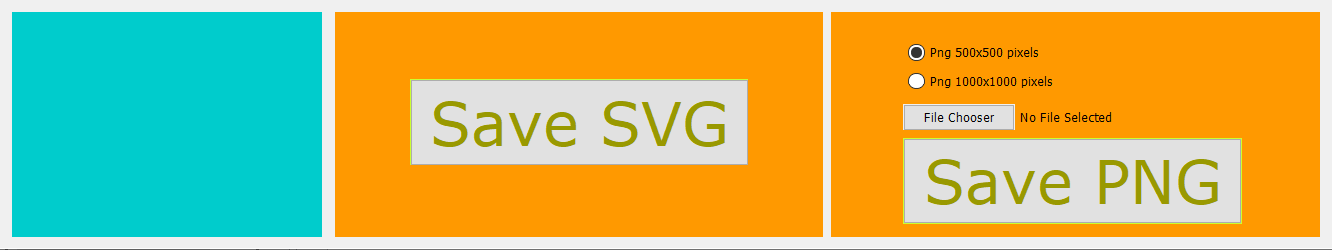
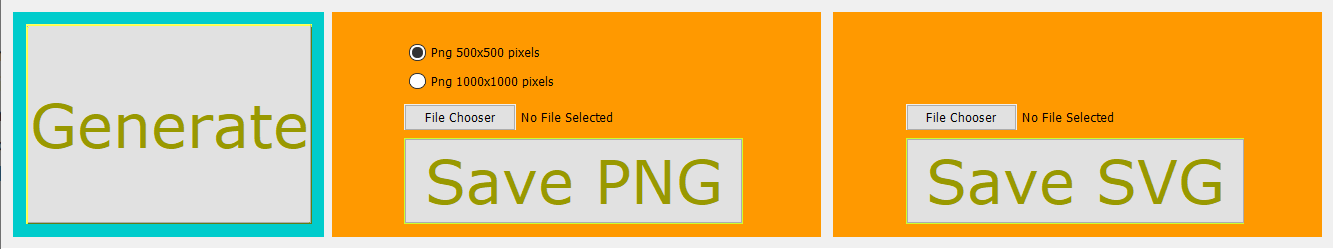
Web Site
- Aggiornato il sito Web

diff --git a/SnowFlakeProject/SnowFlake/src/EditingPagePanel.java b/SnowFlakeProject/SnowFlake/src/EditingPagePanel.java
@@ -1,9 +1,4 @@
 
-import java.awt.Graphics2D;
-import java.awt.image.BufferedImage;
-import java.io.File;
-import javax.imageio.ImageIO;
-import javax.swing.JFrame;
 
 /**
  *
@@ -11,10 +6,6 @@ import javax.swing.JFrame;
  */
 public class EditingPagePanel extends javax.swing.JPanel {
 
-    /**
-     * Il file del salvataggio dei punti di taglio del progetto corrente.
-     */
-    private File currentFile = null;
 
     /**
      * Il triangolo modello.
@@ -26,8 +17,7 @@ public class EditingPagePanel extends javax.swing.JPanel {
      */
     public EditingPagePanel() {
         initComponents();
-        this.livePreviewPanel.setCurrentFile(this.currentFile);
-        this.triangleModel = trianglePanel.getTriangleModel();
+        this.triangleModel = this.trianglePanel.getTriangleModel();
     }
 
     /**
@@ -341,6 +331,8 @@ public class EditingPagePanel extends javax.swing.JPanel {
         generateButton.setFont(new java.awt.Font("Verdana", 0, 48)); // NOI18N
         generateButton.setForeground(new java.awt.Color(153, 153, 0));
         generateButton.setText("Generate");
+        generateButton.setBorder(new javax.swing.border.SoftBevelBorder(javax.swing.border.BevelBorder.RAISED));
+        generateButton.setHorizontalTextPosition(javax.swing.SwingConstants.CENTER);
         generateButton.addActionListener(new java.awt.event.ActionListener() {
             public void actionPerformed(java.awt.event.ActionEvent evt) {
                 generateButtonActionPerformed(evt);
@@ -351,21 +343,17 @@ public class EditingPagePanel extends javax.swing.JPanel {
         jPanel4.setLayout(jPanel4Layout);
         jPanel4Layout.setHorizontalGroup(
             jPanel4Layout.createParallelGroup(javax.swing.GroupLayout.Alignment.LEADING)
-            .addGap(0, 275, Short.MAX_VALUE)
-            .addGroup(jPanel4Layout.createParallelGroup(javax.swing.GroupLayout.Alignment.LEADING)
-                .addGroup(jPanel4Layout.createSequentialGroup()
-                    .addContainerGap()
-                    .addComponent(generateButton)
-                    .addContainerGap(javax.swing.GroupLayout.DEFAULT_SIZE, Short.MAX_VALUE)))
+            .addGroup(jPanel4Layout.createSequentialGroup()
+                .addContainerGap()
+                .addComponent(generateButton, javax.swing.GroupLayout.DEFAULT_SIZE, 342, Short.MAX_VALUE)
+                .addContainerGap())
         );
         jPanel4Layout.setVerticalGroup(
             jPanel4Layout.createParallelGroup(javax.swing.GroupLayout.Alignment.LEADING)
-            .addGap(0, 180, Short.MAX_VALUE)
-            .addGroup(jPanel4Layout.createParallelGroup(javax.swing.GroupLayout.Alignment.LEADING)
-                .addGroup(jPanel4Layout.createSequentialGroup()
-                    .addContainerGap()
-                    .addComponent(generateButton, javax.swing.GroupLayout.DEFAULT_SIZE, 160, Short.MAX_VALUE)
-                    .addContainerGap()))
+            .addGroup(jPanel4Layout.createSequentialGroup()
+                .addContainerGap()
+                .addComponent(generateButton, javax.swing.GroupLayout.DEFAULT_SIZE, 144, Short.MAX_VALUE)
+                .addContainerGap())
         );
 
         svgSavePanel.setBackground(new java.awt.Color(255, 153, 0));
@@ -491,81 +479,79 @@ public class EditingPagePanel extends javax.swing.JPanel {
     }// </editor-fold>//GEN-END:initComponents
 
     private void removeRadioButtonActionPerformed(java.awt.event.ActionEvent evt) {//GEN-FIRST:event_removeRadioButtonActionPerformed
-        trianglePanel.isAdd = false;
-        trianglePanel.isDrag = false;
+        this.trianglePanel.isAdd = false;
+        this.trianglePanel.isDrag = false;
     }//GEN-LAST:event_removeRadioButtonActionPerformed
 
     private void addRadioButtonActionPerformed(java.awt.event.ActionEvent evt) {//GEN-FIRST:event_addRadioButtonActionPerformed
-        trianglePanel.isAdd = true;
-        trianglePanel.isDrag = false;
+        this.trianglePanel.isAdd = true;
+        this.trianglePanel.isDrag = false;
     }//GEN-LAST:event_addRadioButtonActionPerformed
 
     private void previewButtonActionPerformed(java.awt.event.ActionEvent evt) {//GEN-FIRST:event_previewButtonActionPerformed
-        trianglePanel.fillPoly = !trianglePanel.fillPoly;
-        trianglePanel.drawDots = !trianglePanel.drawDots;
+        this.trianglePanel.fillPoly = !this.trianglePanel.fillPoly;
+        this.trianglePanel.drawDots = !this.trianglePanel.drawDots;
         repaint();
     }//GEN-LAST:event_previewButtonActionPerformed
 
     private void resetButtonActionPerformed(java.awt.event.ActionEvent evt) {//GEN-FIRST:event_resetButtonActionPerformed
-        trianglePanel.reset();
-        this.livePreviewPanel = new LivePreviewPanel();
-
-        this.livePreviewPanel.updateFromArea(trianglePanel.generate());
+        this.trianglePanel.reset();
+        this.livePreviewPanel.updateFromArea(this.trianglePanel.generate());
         repaint();
     }//GEN-LAST:event_resetButtonActionPerformed
 
     private void undoButtonActionPerformed(java.awt.event.ActionEvent evt) {//GEN-FIRST:event_undoButtonActionPerformed
-        trianglePanel.undo();
-        this.livePreviewPanel.updateFromArea(trianglePanel.generate());
+        this.trianglePanel.undo();
+        this.livePreviewPanel.updateFromArea(this.trianglePanel.generate());
         repaint();
     }//GEN-LAST:event_undoButtonActionPerformed
 
     private void saveButtonActionPerformed(java.awt.event.ActionEvent evt) {//GEN-FIRST:event_saveButtonActionPerformed
-        trianglePanel.saveDots();
-        if (trianglePanel.getCurrentFileName() != null) {
-            this.currentFileName.setText("Working File: " + trianglePanel.currentFile.getName());
+        this.trianglePanel.saveDots();
+        if (this.trianglePanel.getCurrentFileName() != null) {
+            this.currentFileName.setText("Working File: " + this.trianglePanel.currentFile.getName());
         }
-        this.livePreviewPanel.updateFromArea(trianglePanel.generate());
+        this.livePreviewPanel.updateFromArea(this.trianglePanel.generate());
     }//GEN-LAST:event_saveButtonActionPerformed
 
     private void openButtonActionPerformed(java.awt.event.ActionEvent evt) {//GEN-FIRST:event_openButtonActionPerformed
-        trianglePanel.openDots();
-        if (trianglePanel.getCurrentFileName() != null) {
-            this.currentFileName.setText("Working File: " + trianglePanel.currentFile.getName());
+        this.trianglePanel.openDots();
+        if (this.trianglePanel.getCurrentFileName() != null) {
+            this.currentFileName.setText("Working File: " + this.trianglePanel.currentFile.getName());
         }
-        this.livePreviewPanel.updateFromArea(trianglePanel.generate());
+        this.livePreviewPanel.updateFromArea(this.trianglePanel.generate());
 
     }//GEN-LAST:event_openButtonActionPerformed
 
     private void saveAsButtonActionPerformed(java.awt.event.ActionEvent evt) {//GEN-FIRST:event_saveAsButtonActionPerformed
-        trianglePanel.saveDotsAs();
-        if (trianglePanel.getCurrentFileName() != null) {
-            this.currentFileName.setText("Working File: " + trianglePanel.currentFile.getName());
+        this.trianglePanel.saveDotsAs();
+        if (this.trianglePanel.getCurrentFileName() != null) {
+            this.currentFileName.setText("Working File: " + this.trianglePanel.currentFile.getName());
         }
-        this.livePreviewPanel.updateFromArea(trianglePanel.generate());
+        this.livePreviewPanel.updateFromArea(this.trianglePanel.generate());
 
     }//GEN-LAST:event_saveAsButtonActionPerformed
 
     private void dragRadioButtonActionPerformed(java.awt.event.ActionEvent evt) {//GEN-FIRST:event_dragRadioButtonActionPerformed
-        trianglePanel.isAdd = false;
-        trianglePanel.isDrag = true;
-        trianglePanel.isCurved = false;
+        this.trianglePanel.isAdd = false;
+        this.trianglePanel.isDrag = true;
+        this.trianglePanel.isCurved = false;
     }//GEN-LAST:event_dragRadioButtonActionPerformed
 
     private void curvedRadioButton1ActionPerformed(java.awt.event.ActionEvent evt) {//GEN-FIRST:event_curvedRadioButton1ActionPerformed
-        trianglePanel.isCurved = true;
-        trianglePanel.isAdd = false;
-        trianglePanel.isDrag = true;
+        this.trianglePanel.isCurved = true;
+        this.trianglePanel.isAdd = false;
+        this.trianglePanel.isDrag = true;
     }//GEN-LAST:event_curvedRadioButton1ActionPerformed
 
     private void livePreviewActionPerformed(java.awt.event.ActionEvent evt) {//GEN-FIRST:event_livePreviewActionPerformed
         this.livePreviewPanel.setLivePreview(this.livePreview.isSelected());
-        this.livePreviewPanel.updateFromArea(trianglePanel.generate());
+        this.livePreviewPanel.updateFromArea(this.trianglePanel.generate());
     }//GEN-LAST:event_livePreviewActionPerformed
 
     private void trianglePanelMouseReleased(java.awt.event.MouseEvent evt) {//GEN-FIRST:event_trianglePanelMouseReleased
         this.livePreviewPanel.repaint();
-        this.livePreviewPanel.updateFromArea(trianglePanel.generate());
+        this.livePreviewPanel.updateFromArea(this.trianglePanel.generate());
     }//GEN-LAST:event_trianglePanelMouseReleased
 
     private void formMouseClicked(java.awt.event.MouseEvent evt) {//GEN-FIRST:event_formMouseClicked
@@ -578,7 +564,7 @@ public class EditingPagePanel extends javax.swing.JPanel {
 
     private void pngFileChooserButtonActionPerformed(java.awt.event.ActionEvent evt) {//GEN-FIRST:event_pngFileChooserButtonActionPerformed
         if (this.livePreviewPanel.selectPngFile() != null) {
-            this.pngFileSelected.setText("Working File: " + livePreviewPanel.currentPngFile.getName());
+            this.pngFileSelected.setText("Working File: " + this.livePreviewPanel.currentPngFile.getName());
         }
     }//GEN-LAST:event_pngFileChooserButtonActionPerformed
 
@@ -596,7 +582,7 @@ public class EditingPagePanel extends javax.swing.JPanel {
 
     private void svgFileChooserButtonActionPerformed(java.awt.event.ActionEvent evt) {//GEN-FIRST:event_svgFileChooserButtonActionPerformed
         if (this.livePreviewPanel.selectSvgFile() != null) {
-            this.svgFileSelected.setText("Working File: " + livePreviewPanel.currentSvgFile.getName());
+            this.svgFileSelected.setText("Working File: " + this.livePreviewPanel.currentSvgFile.getName());
         }
     }//GEN-LAST:event_svgFileChooserButtonActionPerformed
 

diff --git a/SnowFlakeProject/SnowFlake/src/LivePreviewPanel.java b/SnowFlakeProject/SnowFlake/src/LivePreviewPanel.java
@@ -9,6 +9,9 @@ import java.awt.geom.Area;
 import java.awt.image.BufferedImage;
 import java.io.File;
 import java.io.Writer;
+import java.util.ArrayList;
+import java.util.logging.Level;
+import java.util.logging.Logger;
 import javax.imageio.ImageIO;
 import javax.swing.JFileChooser;
 import javax.swing.JFrame;
@@ -56,6 +59,10 @@ public class LivePreviewPanel extends javax.swing.JPanel {
     public boolean isMinimumResolution = true;
 
     private Graphics2D g2;
+
+    public ArrayList<Area> getRenderAreas() {
+        return null;
+    }
 
     /**
      *
@@ -105,7 +112,13 @@ public class LivePreviewPanel extends javax.swing.JPanel {
             g2.translate(-sector1.getBounds().width / 2, -sector1.getBounds().height);
             g2.fill(sector6);
             //--------------------
-            //this.setMargin(1);
+            /*
+            g2.setColor(Color.RED);
+            g2.fill(cutArea);
+            for (int i = 0; i < 6 ; i++) {
+                g2.fill(getRotateArea((i-1)*60, getFlippedArea(cutArea)));
+                g2.fill(getRotateArea(i*60, cutArea));
+            }*/
         }
     }
 
@@ -120,18 +133,25 @@ public class LivePreviewPanel extends javax.swing.JPanel {
      * Salva un file Svg contenente l'immagine generata del fiocco di neve.
      */
     public void saveSVG() {
-        DOMImplementation domImpl
-                = GenericDOMImplementation.getDOMImplementation();
-        String svgNS = "http://www.w3.org/2000/svg";
-        Document document = domImpl.createDocument(svgNS, "svg", null);
-        SVGGraphics2D svgGenerator = new SVGGraphics2D(document);
-        this.paintComponent(svgGenerator);
-        boolean useCSS = true;
-        Writer out;
-        try {
-            svgGenerator.stream(this.currentSvgFile.toPath().toString());
-        } catch (SVGGraphics2DIOException e) {
+        if (this.currentSvgFile != null) {
+            DOMImplementation domImpl
+                    = GenericDOMImplementation.getDOMImplementation();
+            String svgNS = "http://www.w3.org/2000/svg";
+            Document document = domImpl.createDocument(svgNS, "svg", null);
+            SVGGraphics2D svgGenerator = new SVGGraphics2D(document);
+            this.paintComponent(svgGenerator);
+            try {
+                svgGenerator.stream(this.currentSvgFile.toPath().toString());
+            } catch (SVGGraphics2DIOException e) {
 
+            }
+        } else {
+            JOptionPane jop = new JOptionPane();
+
+            jop.showMessageDialog(this, "No file selected!",
+                    "File Error",
+                    JOptionPane.ERROR_MESSAGE);
+            repaint();
         }
     }
 
@@ -141,7 +161,6 @@ public class LivePreviewPanel extends javax.swing.JPanel {
     public void savePNG() {
         if (this.currentPngFile != null) {
             JFrame savePngFrame = new JFrame("Png Saved!");
-            JPanel jp = new JPanel();
             savePngFrame.add(this);
             if (isMinimumResolution) {
                 savePngFrame.setSize(500, 500);
@@ -156,7 +175,7 @@ public class LivePreviewPanel extends javax.swing.JPanel {
                 BufferedImage image = new BufferedImage(this.getWidth() + 7, this.getHeight() + 30, BufferedImage.TYPE_INT_ARGB);
                 Graphics2D graphics2d = image.createGraphics();
                 savePngFrame.paint(graphics2d);
-                ImageIO.write(image, "png", new File(currentPngFile.getPath()));
+                ImageIO.write(image, "png", new File(this.currentPngFile.getPath()));
             } catch (Exception exception) {
             }
 
@@ -175,7 +194,6 @@ public class LivePreviewPanel extends javax.swing.JPanel {
 
     private Shape getRotateArea(int angle, Shape shape) {
         AffineTransform af = new AffineTransform();
-        //af.rotate(Math.toRadians(angle), (shape.getBounds().x+shape.getBounds().width), (shape.getBounds().y+shape.getBounds().height));
         af.rotate(Math.toRadians(angle), shape.getBounds().x, shape.getBounds().y);
         return af.createTransformedShape(shape);
     }
@@ -196,8 +214,8 @@ public class LivePreviewPanel extends javax.swing.JPanel {
         return tot.createTransformedShape(area);
     }
 
-    public void setMargin() {
-        this.MARGIN = MARGIN;
+    public void setMargin(int margin) {
+        this.MARGIN = margin;
     }
 
     public void updateFromArea(Area cutArea) {
@@ -263,10 +281,6 @@ public class LivePreviewPanel extends javax.swing.JPanel {
     // Variables declaration - do not modify//GEN-BEGIN:variables
     private javax.swing.JCheckBox livePreview;
     // End of variables declaration//GEN-END:variables
-
-    public void setCurrentFile(File currentPngFile) {
-        this.currentPngFile = currentPngFile;
-    }
 
     public String selectPngFile() {
         JFileChooser fc = new JFileChooser();
